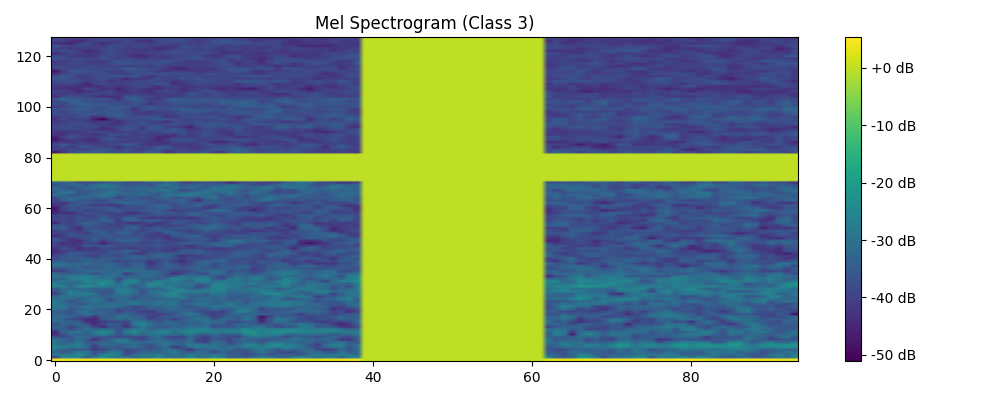
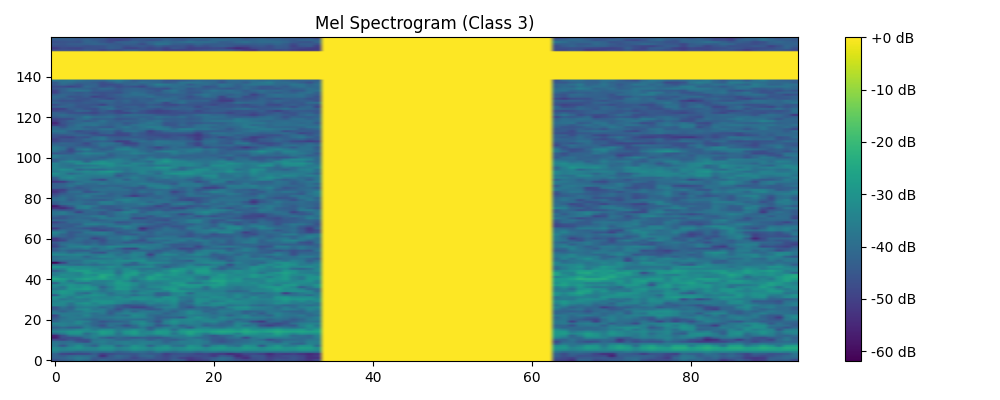
update the model

diff --git a/modules/model.py b/modules/model.py
@@ -26,14 +26,32 @@ class SELayer(nn.Module):
         y = self.fc(y).view(b, c, 1, 1)
         return x * y.expand_as(x)
 
+class FrequencyAttention(nn.Module):
+    def __init__(self, in_planes, reduction=8):
+        super(FrequencyAttention, self).__init__()
+        # Pool time axis (W) to 1, keep frequency axis (H) and channels
+        self.avg_pool = nn.AdaptiveAvgPool2d((None, 1))
+        self.fc = nn.Sequential(
+            nn.Conv2d(in_planes, max(1, in_planes // reduction), kernel_size=1, bias=False),
+            nn.ReLU(inplace=True),
+            nn.Conv2d(max(1, in_planes // reduction), in_planes, kernel_size=1, bias=False),
+            nn.Sigmoid()
+        )
+
+    def forward(self, x):
+        y = self.avg_pool(x)
+        y = self.fc(y)
+        return x * y
+
 class AsymmetricConv(nn.Module):
     def __init__(self, in_planes, out_planes, kernel_size, stride=1, padding=0, groups=1, bias=False):
         super(AsymmetricConv, self).__init__()
+        stride_h, stride_w = stride if isinstance(stride, tuple) else (stride, stride)
         self.conv = nn.Sequential(
-             nn.Conv2d(in_planes, out_planes, kernel_size=(kernel_size, 1), stride=(stride, 1), padding=(padding, 0), groups=groups, bias=bias),
+             nn.Conv2d(in_planes, out_planes, kernel_size=(kernel_size, 1), stride=(stride_h, 1), padding=(padding, 0), groups=groups, bias=bias),
              nn.BatchNorm2d(out_planes),
              nn.ReLU6(inplace=True),
-             nn.Conv2d(out_planes, out_planes, kernel_size=(1, kernel_size), stride=(1, stride), padding=(0, padding), groups=groups, bias=bias),
+             nn.Conv2d(out_planes, out_planes, kernel_size=(1, kernel_size), stride=(1, stride_w), padding=(0, padding), groups=groups, bias=bias),
         )
     def forward(self, x):
         return self.conv(x)
@@ -98,8 +116,8 @@ class InvertedResidual(nn.Module):
     def __init__(self, inp, oup, stride, expand_ratio, attention_mode=None, asymmetric=False, use_res_connect=True):
         super(InvertedResidual, self).__init__()
         self.stride = stride
-        assert stride in [1, 2]
-        assert attention_mode in ['pre_dw', 'post_dw', 'se', None]
+        assert isinstance(stride, tuple) or stride in [1, 2]
+        assert attention_mode in ['pre_dw', 'post_dw', 'se', 'freq', None]
         hidden_dim = int(round(inp * expand_ratio))
         
         # Determine residuals: Only if stride=1, inp=oup, AND manually allowed
@@ -125,6 +143,8 @@ class InvertedResidual(nn.Module):
             layers.append(CBAM(hidden_dim))
         elif attention_mode == 'se':
             layers.append(SELayer(hidden_dim))
+        elif attention_mode == 'freq':
+            layers.append(FrequencyAttention(hidden_dim))
             
         layers.extend([nn.Conv2d(hidden_dim, oup, 1, 1, 0, bias=False), nn.BatchNorm2d(oup)])
         self.conv = nn.Sequential(*layers)
@@ -137,10 +157,11 @@ class InvertedResidual(nn.Module):
 
 class MyNet(nn.Module):
     def __init__(self, num_classes=1000, model_config=None, width_mult=1.0, in_channels=1,
-                 asymmetric=False, force_no_residual=False):
+                 asymmetric=False, force_no_residual=False, audio_mode=False):
         super(MyNet, self).__init__()
         self.asymmetric = asymmetric
         self.force_no_residual = force_no_residual
+        self.audio_mode = audio_mode
 
         if model_config is None:
             model_config = [
@@ -157,20 +178,27 @@ class MyNet(nn.Module):
         # Standard MobileNetV2 usually has residuals where possible
         self.use_res_connect = True 
         
-        attn_map = {0: None, 1: 'post_dw', 2: 'pre_dw', 3: 'se'} # 3 for SE
+        attn_map = {0: None, 1: 'post_dw', 2: 'pre_dw', 3: 'se', 4: 'freq'} # 4 for Frequency Attention
         block = InvertedResidual
         stem_output_channel = 32
         last_channel = 1280
         stem_output_channel = int(stem_output_channel * width_mult)
         self.last_channel = int(last_channel * max(1.0, width_mult))
         features = []
-        features.append(ConvBNReLU(in_channels, stem_output_channel, kernel_size=3, stride=2, groups=1))
+        
+        stem_stride = (1, 2) if audio_mode else 2
+        features.append(ConvBNReLU(in_channels, stem_output_channel, kernel_size=3, stride=stem_stride, groups=1))
         current_channels = stem_output_channel
         for t, c, n, s, attn_code in model_config:
             output_channel = int(c * width_mult)
             attention_mode = attn_map.get(attn_code)
             for i in range(n):
-                stride = s if i == 0 else 1
+                if i == 0:
+                    stride = s
+                    if self.audio_mode and stride == 2:
+                        stride = (1, 2) # keep H, pool W
+                else:
+                    stride = 1
                 
                 # Check for global flags
                 asymmetric_flag = getattr(self, 'asymmetric', False)

diff --git a/run_experiments.py b/run_experiments.py
@@ -25,7 +25,8 @@ BASE_CONFIG_TEMPLATE = {
         'model_config': None,
         # Ablation flags
         'asymmetric': False,
-        'force_no_residual': False
+        'force_no_residual': False,
+        'audio_mode': False
     }
 }
 
@@ -66,6 +67,17 @@ CONFIG_SE_ALL = [
     [6, 320, 1, 1, 3]
 ]
 
+# Config with Frequency Attention at s24 (M6)
+CONFIG_FREQ_S24 = [
+    [1, 16, 1, 1, 0],
+    [6, 24, 2, 2, 4], # s24 (Stage 2) attention=4 (freq)
+    [6, 32, 3, 1, 0],
+    [6, 64, 4, 2, 4], # s24 (Stage 4) attention=4 (freq)
+    [6, 96, 3, 1, 0],
+    [6, 160, 3, 1, 0],
+    [6, 320, 1, 1, 0]
+]
+
 EXPERIMENTS = {
     "M1_BasicCNN": {
         "model_config": CONFIG_BASE,
@@ -90,7 +102,14 @@ EXPERIMENTS = {
     "M5_MobileNetV2_CBAM_Asym": {
         "model_config": CONFIG_CBAM_S24,
         "force_no_residual": False,
-        "asymmetric": True
+        "asymmetric": True,
+        "audio_mode": False
+    },
+    "M6_AudioMobileNetV2": {
+        "model_config": CONFIG_FREQ_S24,
+        "force_no_residual": False,
+        "asymmetric": True,
+        "audio_mode": True
     },
 }
 
@@ -113,8 +132,9 @@ def main():
         
         # Apply specific settings
         current_config['model_conf']['model_config'] = setup['model_config']
-        current_config['model_conf']['asymmetric'] = setup['asymmetric']
-        current_config['model_conf']['force_no_residual'] = setup['force_no_residual']
+        current_config['model_conf']['asymmetric'] = setup.get('asymmetric', False)
+        current_config['model_conf']['force_no_residual'] = setup.get('force_no_residual', False)
+        current_config['model_conf']['audio_mode'] = setup.get('audio_mode', False)
         current_config['train_conf']['save_model_dir'] = f'saved_models/{exp_name}'
 
         config_path = configs_dir / f"{exp_name}_config.yml"

diff --git a/test.py b/test.py
@@ -33,7 +33,8 @@ def test(config_path: str, model_path: str):
         model_config=model_conf.get('model_config'),
         width_mult=model_conf.get('width_mult', 1.0),
         asymmetric=model_conf.get('asymmetric', False),
-        force_no_residual=model_conf.get('force_no_residual', False)
+        force_no_residual=model_conf.get('force_no_residual', False),
+        audio_mode=model_conf.get('audio_mode', False)
     )
 
     state_dict = torch.load(model_path, map_location=device)

diff --git a/train.py b/train.py
@@ -102,7 +102,8 @@ def train(config_path: str):
         width_mult=width_mult,
         in_channels=model_conf.get('in_channels', 1),
         asymmetric=model_conf.get('asymmetric', False),
-        force_no_residual=model_conf.get('force_no_residual', False)
+        force_no_residual=model_conf.get('force_no_residual', False),
+        audio_mode=model_conf.get('audio_mode', False)
     )
     model.to(device)
     print("模型结构:")
